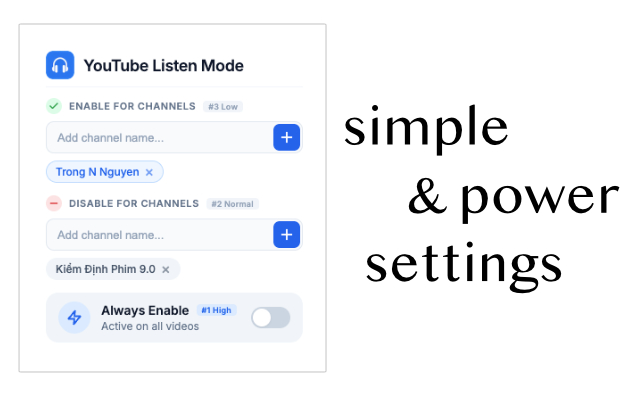
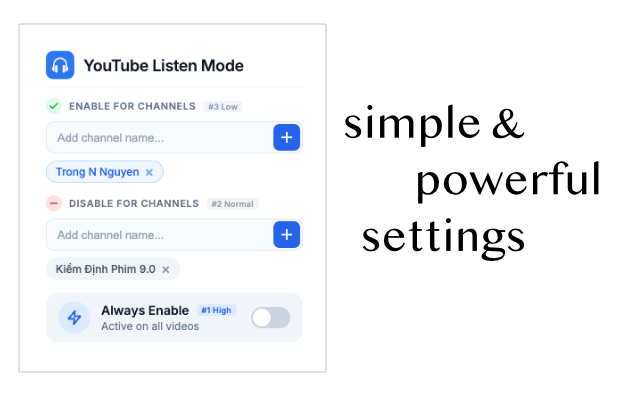
feat: revamp release-publish flow (#26)
- publish is now manual trigger
- version sync to manifest in every time packaging extension
- remove old icon
- update 2nd screenshot
- force node js version

Changed region(s): [[0.5625, 0.39, 0.9688, 0.75], [0.5312, 0.24, 0.8125, 0.39]]

diff --git a/scripts/sync-version.js b/scripts/sync-version.js
@@ -1,0 +1,22 @@
+const fs = require('fs');
+
+function sync() {
+    try {
+        const pkg = JSON.parse(fs.readFileSync('./package.json', 'utf8'));
+        const manifestPath = './manifest.json';
+        const manifest = JSON.parse(fs.readFileSync(manifestPath, 'utf8'));
+
+        if (manifest.version !== pkg.version) {
+            manifest.version = pkg.version;
+            fs.writeFileSync(manifestPath, JSON.stringify(manifest, null, 4) + '\n');
+            console.log(`[YLM] Synced manifest.json version to ${pkg.version}`);
+        } else {
+            console.log(`[YLM] Version already in sync: ${pkg.version}`);
+        }
+    } catch (err) {
+        console.error('[YLM] Failed to sync version:', err.message);
+        process.exit(1);
+    }
+}
+
+sync();
